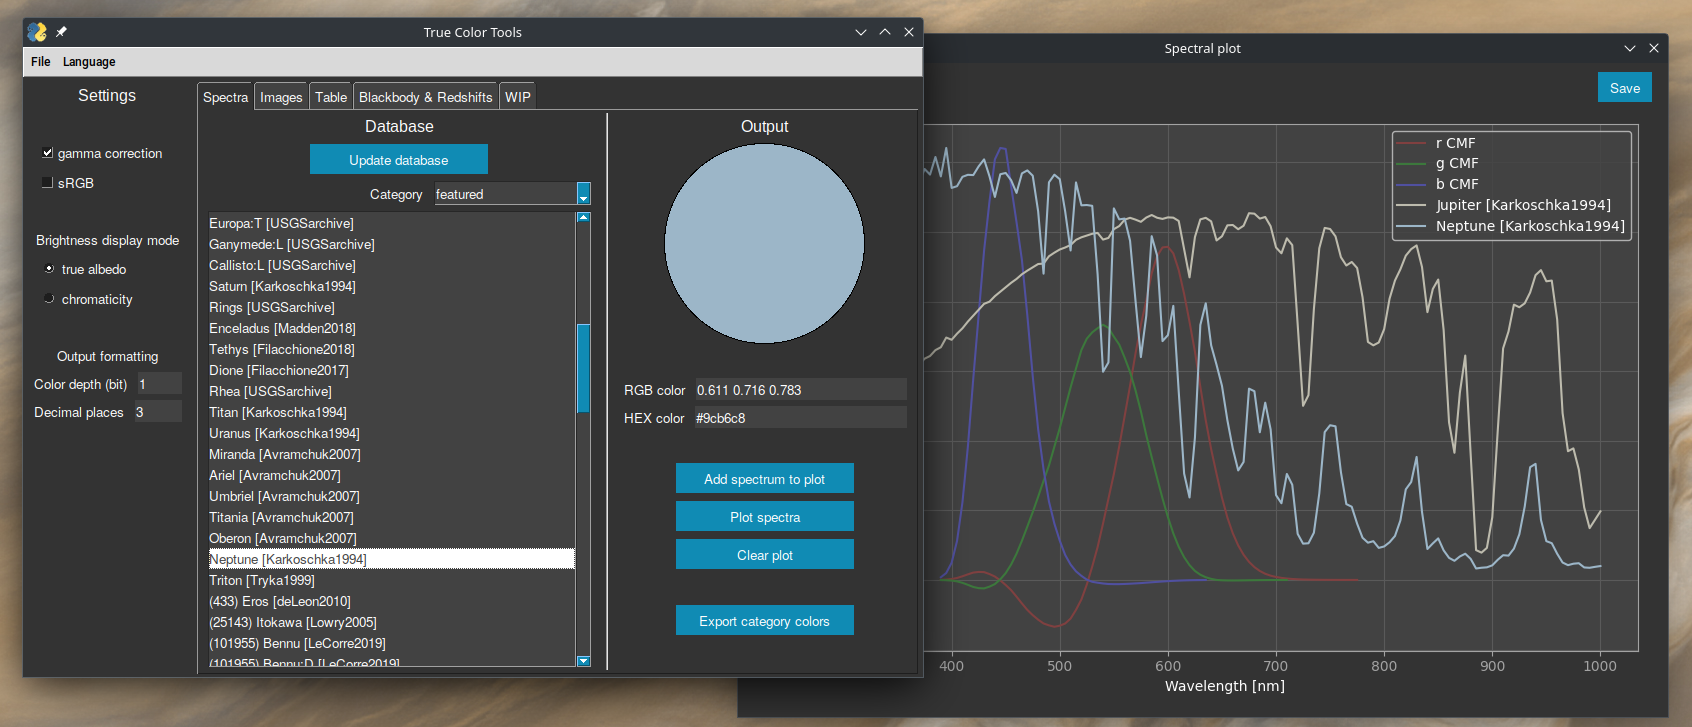
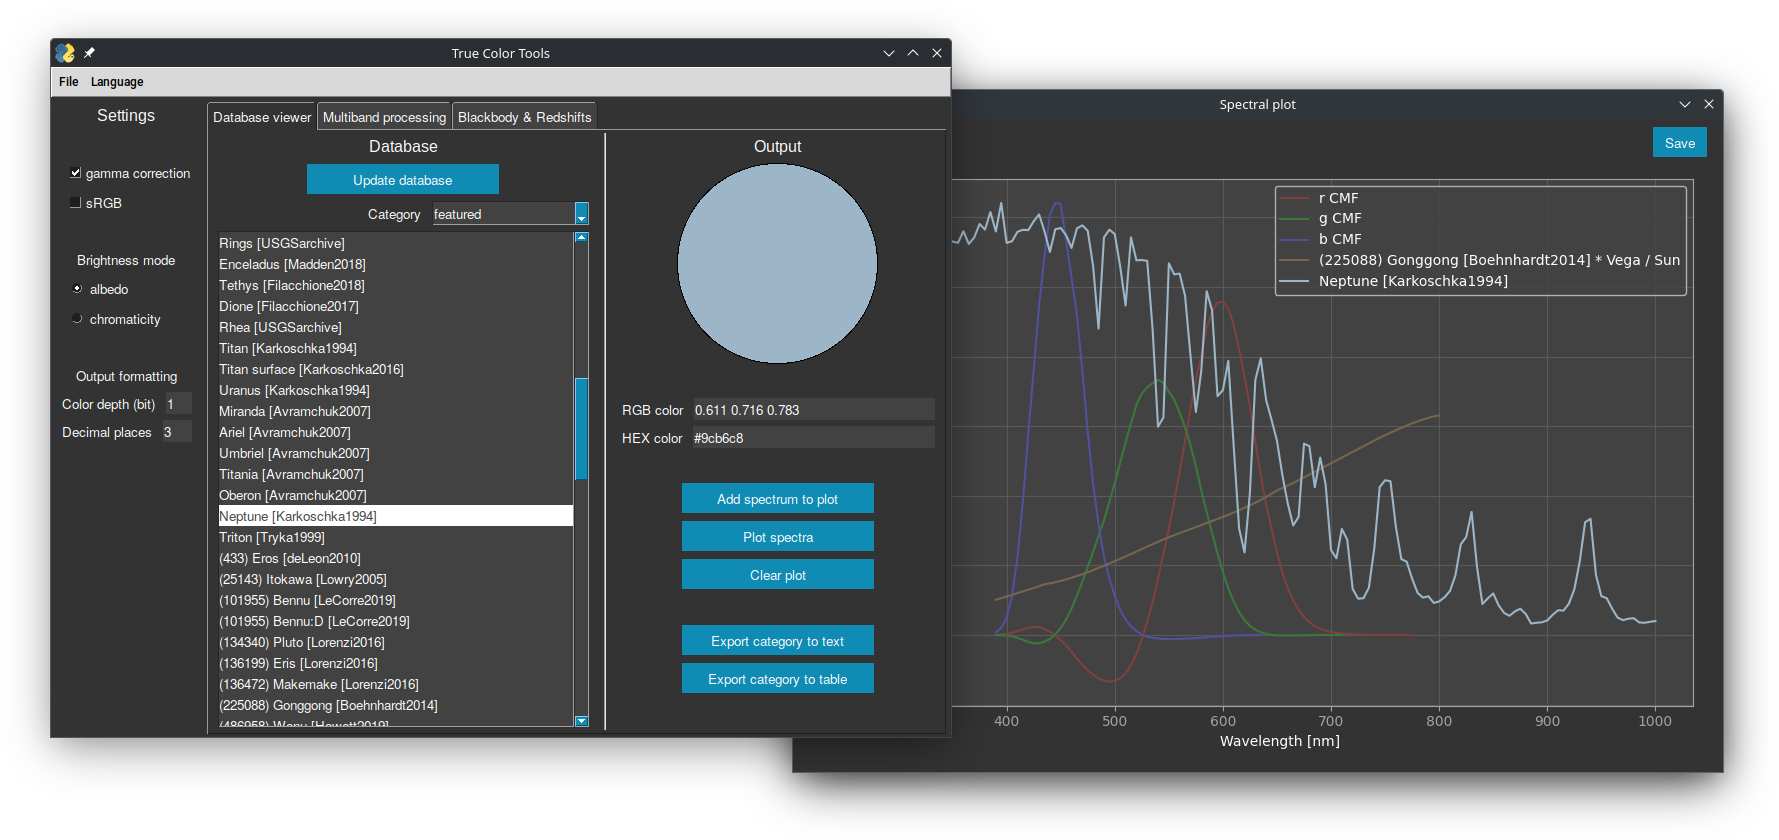
Fixes and improvements, ReadMe update

diff --git a/src/strings.py b/src/strings.py
@@ -1,6 +1,7 @@
 
 # Objects localization. Order is important for nested words: longer ones must come first.
 names = {
+    'Equal-energy spectrum': {'ru': 'Плоский спектр', 'de': 'Gleiches Energiespektrum'},
     'Proxima Centauri': {'ru': 'Проксима Центавра', 'de': 'Proxima Centauri'},
     'Andromedae': {'ru': 'Андромеды', 'de': 'Andromedae'},
     #'Antliae': {'ru': '', 'de': 'Antliae'},
@@ -113,6 +114,7 @@ names = {
     'Sirius': {'ru': 'Сириус', 'de': 'Sirius'},
     'Sun': {'ru': 'Солнце', 'de': 'Sonne'},
     'Mercury': {'ru': 'Меркурий', 'de': 'Merkur'},
+    'Venus surface': {'ru': 'Поверхность Венеры', 'de': 'Venusoberfläche'},
     'Venus': {'ru': 'Венера', 'de': 'Venus'},
     'Earth': {'ru': 'Земля', 'de': 'Erde'},
     'Moon': {'ru': 'Луна', 'de': 'Mond'},
@@ -134,6 +136,7 @@ names = {
     'Dione': {'ru': 'Диона', 'de': 'Dione'},
     'Rhea': {'ru': 'Рея', 'de': 'Rhea'},
     'Titania': {'ru': 'Титания', 'de': 'Titania'},
+    'Titan surface': {'ru': 'Поверхность Титана', 'de': 'Titanoberfläche'},
     'Titan': {'ru': 'Титан', 'de': 'Titan'},
     'Uranian irregulars': {'ru': 'Нерег. сп. Урана', 'de': 'irreguläre Uranusmonde'},
     'Uranus': {'ru': 'Уран', 'de': 'Uranus'},
@@ -151,14 +154,25 @@ names = {
     'Juno': {'ru': 'Юнона', 'de': 'Juno'},
     'Vesta': {'ru': 'Веста', 'de': 'Vesta'},
     'Iris': {'ru': 'Ирида', 'de': 'Iris'},
+    'Metis': {'ru': 'Метида', 'de': 'Metis'},
+    'Egeria': {'ru': 'Эгерия', 'de': 'Egeria'},
+    'Eunomia': {'ru': 'Эвномия', 'de': 'Eunomia'},
     'Psyche': {'ru': 'Психея', 'de': 'Psyche'},
+    'Fortuna': {'ru': 'Фортуна', 'de': 'Fortuna'},
     'Kalliope': {'ru': 'Каллиопа', 'de': 'Kalliope'},
+    'Themis': {'ru': 'Фемида', 'de': 'Themis'},
+    'Amphitrite': {'ru': 'Амфитрита', 'de': 'Amphitrite'},
     'Euphrosyne': {'ru': 'Евфросина', 'de': 'Euphrosyne'},
     'Daphne': {'ru': 'Дафна', 'de': 'Daphne'},
     'Eugenia': {'ru': 'Евгения', 'de': 'Eugenia'},
+    'Doris': {'ru': 'Дорида', 'de': 'Doris'},
+    'Europa': {'ru': 'Европа', 'de': 'Europa'},
+    'Cybele': {'ru': 'Кибела', 'de': 'Cybele'},
     'Sylvia': {'ru': 'Сильвия', 'de': 'Sylvia'},
+    'Thisbe': {'ru': 'Фисба', 'de': 'Thisbe'},
     'Antiope': {'ru': 'Антиопа', 'de': 'Antiope'},
     'Minerva': {'ru': 'Минерва', 'de': 'Minerva'},
+    'Aurora': {'ru': 'Аврора', 'de': 'Aurora'},
     'Camilla': {'ru': 'Камилла', 'de': 'Camilla'},
     'Hermione': {'ru': 'Гермиона', 'de': 'Hermione'},
     'Elektra': {'ru': 'Электра', 'de': 'Elektra'},
@@ -178,6 +192,7 @@ names = {
     'Haumea': {'ru': 'Хаумеа', 'de': 'Haumea'},
     'Eris': {'ru': 'Эрида', 'de': 'Eris'},
     'Makemake': {'ru': 'Макемаке', 'de': 'Makemake'},
+    'Gonggong': {'ru': 'Гунгун', 'de': 'Gonggong'},
     'Arrokoth': {'ru': 'Аррокот', 'de': 'Arrokoth'},
     'Wenu': {'ru': 'Уэну', 'de': 'Wenu'},
     'Weeyo': {'ru': 'Уээйо', 'de': 'Weeyo'},
@@ -253,8 +268,8 @@ gui_gamma = {
     'de': 'Gammakorrektur'
 }
 gui_br = {
-    'en': ['Brightness display mode', 'albedo', 'chromaticity'],
-    'ru': ['Отображение яркости', 'альбедо', 'цветность'],
+    'en': ['Brightness mode', 'albedo', 'chromaticity'],
+    'ru': ['Режим яркости', 'альбедо', 'цветность'],
     'de': ['Helligkeitsmodus', 'Farbe mit Albedo', 'Farbton']
 }
 gui_interp = {

diff --git a/src/core.py b/src/core.py
@@ -118,8 +118,8 @@ def extrapolating(x: np.ndarray, y: np.ndarray, scope: np.ndarray, step: int|flo
             diff = y[1]-y[0]
             corner_y = y[0]
         else:
-            avg_weights = np.abs(np.arange(-avg_steps, 0)) # weights could be more complicated, but there is no need
-            diff = np.average(y_scope[1:]-y_scope[:-1], weights=avg_weights[:-1])
+            avg_weights = np.abs(np.arange(-avg_steps, 0)[avg_steps-y_scope.size:]) # weights could be more complicated, but there is no need
+            diff = np.average(np.diff(y_scope), weights=avg_weights[:-1])
             corner_y = np.average(y_scope, weights=avg_weights) - diff * avg_steps * weights_center_of_mass
         y1 = custom_extrap(x1, diff/step, x[0], corner_y)
         x = np.append(x1, x)
@@ -131,8 +131,8 @@ def extrapolating(x: np.ndarray, y: np.ndarray, scope: np.ndarray, step: int|flo
             diff = y[-1]-y[-2]
             corner_y = y[-1]
         else:
-            avg_weights = np.arange(avg_steps) + 1
-            diff = np.average(y_scope[1:]-y_scope[:-1], weights=avg_weights[1:])
+            avg_weights = np.arange(avg_steps)[:y_scope.size] + 1
+            diff = np.average(np.diff(y_scope), weights=avg_weights[1:])
             corner_y = np.average(y_scope, weights=avg_weights) + diff * avg_steps * weights_center_of_mass
         y1 = custom_extrap(x1, diff/step, x[-1], corner_y)
         x = np.append(x, x1)
@@ -182,12 +182,12 @@ class Spectrum:
         - `scope` (np.ndarray): makes a spectrum of the same resolution as at least defined at the given wavelengths
         """
         try:
+            nm = np.array(nm) # numpy decides int or float
+            br = np.array(br, dtype='float')
             if nm[-1] > nm_red_limit:
                 flag = np.where(nm < nm_red_limit + resolution) # with reserve to be averaged
                 nm = nm[flag]
                 br = br[flag]
-            nm = np.array(nm) # numpy decides int or float
-            br = np.array(br, dtype='float')
             if np.any((diff := np.diff(nm)) != resolution): # if not uniform 5 nm grid
                 uniform_nm = grid(nm[0], nm[-1], resolution)
                 if diff.mean() >= resolution: # interpolation, increasing resolution
@@ -411,7 +411,7 @@ def from_database(name: str, content: dict) -> Spectrum | Photometry:
     """
     Depending on the contents of the object read from the database, returns a class that has `to_scope()` method
 
-    Supported input keys of database unit:
+    Supported input keys of a database unit:
     - `nm` (list): list of wavelengths in nanometers
     - `br` (list): same-size list of "brightness" of an energy counter detector (not photon counter)
     - `mag` (list): same-size list of magnitudes

diff --git a/src/gui.py b/src/gui.py
@@ -110,6 +110,7 @@ def generate_layout(canvas_size: tuple, img_preview_size: tuple, text_colors: tu
         [sg.Column(T2_frames, scrollable=True, vertical_scroll_only=True, key='T2_frames', expand_y=True)]
     ]
     T2_col2 = [
+        [sg.Text('The tab temporarily not works!', font=title_font, text_color='red')],
         [sg.Push(), sg.Text(tr.gui_results[lang], font=title_font, key='T2_title2'), sg.Push()],
         [sg.Canvas(key='T2_canvas')],
         [sg.Checkbox(tr.gui_desun[lang], key='T2_desun')],
@@ -187,7 +188,7 @@ def generate_layout(canvas_size: tuple, img_preview_size: tuple, text_colors: tu
     ]
 
 
-def translate(window: sg.Window, T2_vis: int, lang: str):
+def translate(window: sg.Window, T2_num: int, lang: str):
     window['menu'].update(tr.gui_menu[lang])
     window['tab1'].update(title=tr.gui_tabs[lang][0])
     window['tab2'].update(title=tr.gui_tabs[lang][1])
@@ -223,7 +224,7 @@ def translate(window: sg.Window, T2_vis: int, lang: str):
     window['T2_bgrText2'].update(tr.gui_BGRcolors[lang][2])
     window['T2_step2'].update(tr.gui_step2[lang])
     window['T2_pathText'].update(tr.gui_browse[lang])
-    for i in range(T2_vis):
+    for i in range(T2_num):
         window['T2_band'+str(i)].update(f'{tr.gui_band[lang]} {i+1}')
         window['T2_filterText'+str(i)].update(tr.gui_filter[lang])
         window['T2_brText'+str(i)].update(tr.gui_brightness[lang])

diff --git a/src/main.py b/src/main.py
@@ -77,7 +77,7 @@ def launch_window(lang: str):
                 pass
         # (allows other tab checks to happen)
         elif event == '-currentTab-':
-            is_color_circle = int(values['-currentTab-'] in ('tab1', 'tab4'))
+            is_color_circle = int(values['-currentTab-'] in ('tab1', 'tab3'))
             window['-formattingText-'].update(text_color=text_colors[is_color_circle])
             window['-bitnessText-'].update(text_color=text_colors[is_color_circle])
             window['-roundingText-'].update(text_color=text_colors[is_color_circle])
@@ -113,7 +113,7 @@ def launch_window(lang: str):
             sg.popup(f'{tr.link}\n{tr.auth_info[lang]}', title=event)
         
         elif event == 'T1_database': # global loading of spectra database, was needed for separate Table tab
-            objectsDB, refsDB = di.import_DBs(['extras', 'spectra'])
+            objectsDB, refsDB = di.import_DBs(['spectra extras', 'spectra'])
             tagsDB = di.tag_list(objectsDB)
             window['T1_tagsN'].update(visible=True)
             window['T1_tags'].update(default_tag, values=tagsDB, visible=True)

diff --git a/ReadMe.md b/ReadMe.md
@@ -54,29 +54,23 @@ Program interface is functionally divided into tabs: *Database viewer*, *Multiba
 **Blackbody & Redshifts tab** calculates the influence of physical phenomena on color. Based on the blackbody spectrum, the program displays the changes in color and brightness from Doppler and gravitational redshifts. You can lock the exposure on the apparent magnitude logarithmic scale, adjusting the overexposure limit for a tuned blackbody object if it was in the sky replacing the Sun (with the angular size).
 
 ### Features
-- Tag system: Each object in the database can be assigned an arbitrary set of tags. They form lists of categories for the *Database viewer* tab, which makes it easier to work with a huge database.
-- Reference system: Each object in the database can be easily linked to one or several data sources by its short name. You can see the list in `File`→`Sources`. Also, after an object's name there can be abbreviations, the decoding of which is indicated in `File`→`Notes`.
+- Tag system: Each spectrum in the database can be assigned an arbitrary set of tags. They form lists of categories for the *Database viewer* tab, which makes working with the database easier.
+- Reference system: Each object in the database can be easily linked to one or several data sources by its short name. You can see the list in `File`→`References`. Also, object name can contain abbreviations, the decoding of which is indicated in `File`→`Notes`.
 - Multilingual support: The language can be changed through the top menu in runtime. TCT supports English, German and Russian. If you want to add support for your language, you can do it by analogy in [`strings.py`](src/strings.py) and make a commit or contact me.
 
 
-## Database Extension
-The data in the [spectra folder](spectra/) can be modified by the user (except for the "vital" spectra of the [Sun](spectra/files/CALSPEC/sun_reference_stis_002.fits) and [Vega](spectra/files/CALSPEC/alpha_lyr_stis_011.fits), they cannot be edited). Also, an `extras` folder can be created nearby, the contents of which will also be replenished with the database, at the top of the first tab's list. Spectrum and reference information is stored in JSON5 files. The program reads all the JSON5 files in the folder. The display order within TCT is determined by the file names and the order within the file. When duplicating, the last spectrum replaces the previously specified one. Tags can be anything, nothing will break. Their list is formed after reading the files. You can help the project by creating and sharing database files.
+## Databases
 
-Spectrum brightness scale does not affect anything. If you know that the spectrum is reflectivity (where 0 is total absorption and 1 is total reflection), then you can set `albedo=true` and TCT will be able to show the true brightness. Specifying a floating point number will require TCT to make this spectrum in Bessell V filter give such an albedo. Optional internal standard (e.g. for "vital" Solar and Vegan spectra, *Blackbody & Redshifts* tab) is flux spectral density measured in W / (m² nm).
+### Spectra database structure
+Data listed in a JSON5 file can be of two types: reference and photometry. There are no restrictions on their order and relative position at all (source and data can be in different files), but it is usually convenient to list the sources at the beginning of the file, then the spectra.
+
+The brightness scale is not strictly tied to physical quantities. Using the `albedo` flag, you can indicate that the incoming spectrum is scaled and the brightness in the range 0 to 1 should be treated as reflectance. The scaling task can be left to the program by specifying a wavelength or filter for which the albedo is known. Optional internal standard is flux spectral density measured in W / (m² nm).
+
+It is assumed that all data is indicated in ascending wavelength order, and for measurements that are calibrated according to Vega, a flag about this is required! TCT doesn't store information about which photometric systems use Vega as a white standard and which do not.
 
 You can store the file with the spectrum outside of JSON5, and put a link in it. Text and FITS (*.fits, *.fit) formats are supported for external files. The text file must be in two columns without a header, and the first column of wavelengths must be in angstroms. In FITS files assumed data containing in the second HDU. If you have problems reading FITS, contact me, I'll improve the parsing on this example.
 
-100 stellar spectra of [CALSPEC database](https://www.stsci.edu/hst/instrumentation/reference-data-for-calibration-and-tools/astronomical-catalogs/calspec) (as of August 12, 2023) are stored as FITS files in the [spectra/files/CALSPEC](spectra/files/CALSPEC) folder. If you add spectrum from the database, it is recommended to take the "stis" version and pay attention to the presence of the B−V color index in the table.
-
-TCT use filter sensitivity profiles for accurate spectrum restoration. They are provided by [SVO Filter Profile Service](http://svo2.cab.inta-csic.es/svo/theory/fps3/index.php) and stored [here](/filters). To replenish the database, select a filter on the site, choose the `ascii` data file and place it in the folder. If you see `Detector Type: Photon counter` in the filter description there (instead of `Energy counter` we need) rename the file by putting "-" at the beginning.
-
-Brief help on the UBVRI photometric system implementations:
-- Generic_Johnson takes into account the sensitivity of photomultiplier tubes, mostly affected on R and I bands. Use **only** if the measurements were actually recorded on a PMT.
-- Generic_Cousins contains only R and I bands. Can be used with the U, B, V from Johnson system directly, but the error is expected to be large.
-- Generic_Bessell is actually Johnson—Cousins system for CCD receiver. Recommended by default.
-
-### Database keys
-Note that any parameters must increase with wavelength.
+Supported input keys of a database unit:
 - `nm` (list): list of wavelengths in nanometers
 - `br` (list): same-size list of "brightness" of an energy counter detector (not photon counter)
 - `mag` (list): same-size list of magnitudes
@@ -90,3 +84,18 @@ Note that any parameters must increase with wavelength.
 - `sun` (bool): `true` to remove Sun as emitter
 - `vega` (bool): `true` to untie from the white standard according to Vega
 - `tags` (list): strings, categorizes a spectrum
+
+### Spectra database extension
+The data in the `/spectra` folder can be modified by user (except for the "vital" spectra of the [Sun](spectra/files/CALSPEC/sun_reference_stis_002.fits) and [Vega](spectra/files/CALSPEC/alpha_lyr_stis_011.fits)). The display order in the *Database viewer* is determined by the file names and the order within the file. When repeating the spectrum header in the database, the last spectrum replaces the previously specified one. Tags can be anything, nothing will break. Their list is formed after reading the files. `"/spectra extras"` is recommended as a storage location for user files; they will be shown first in the GUI. You can help the project by creating and sharing database files.
+
+100 stellar spectra of [CALSPEC database](https://www.stsci.edu/hst/instrumentation/reference-data-for-calibration-and-tools/astronomical-catalogs/calspec) (as of August 12, 2023) are stored as FITS files in the [spectra/files/CALSPEC](spectra/files/CALSPEC) folder. If you add spectrum from the database, it is recommended to take the "stis" version and pay attention to the presence of the B−V color index in the table.
+
+### Filters database extension
+TCT use filter sensitivity profiles for accurate spectrum restoration. They are provided by [SVO Filter Profile Service](http://svo2.cab.inta-csic.es/svo/theory/fps3/index.php) and stored [here](/filters). To replenish the database, select a filter on the site, choose the "ascii" data file and place it in the folder. If you see "Detector Type: Photon counter" in the filter description there (instead of "Energy counter" we need) rename the file by putting `-` at the beginning.
+
+Some of files in the `/filters` folder are "vital": [V band filter](filters/Generic_Bessell.V.dat) and human eye's color matching functions. You can create `"/filter extras"` folder for personal use.
+
+Brief help on the UBVRI photometric system implementations:
+- `Generic_Johnson` takes into account the sensitivity of photomultiplier tubes, mostly affected on R and I bands. Use **only** if the measurements were actually recorded on a PMT.
+- `Generic_Cousins` contains only R and I bands. Can be used with the U, B, V from Johnson system directly, but the error is expected to be large.
+- `Generic_Bessell` is actually Johnson—Cousins system for CCD receiver. Recommended by default.
